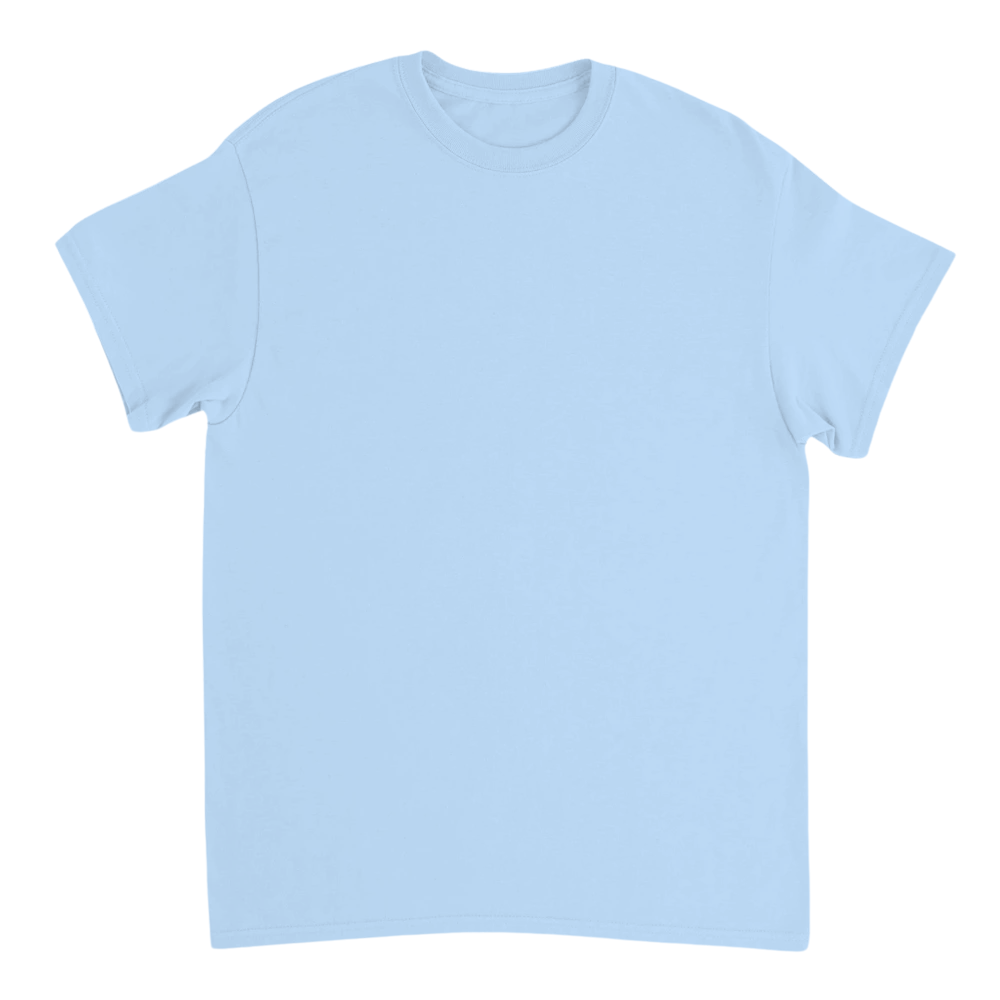
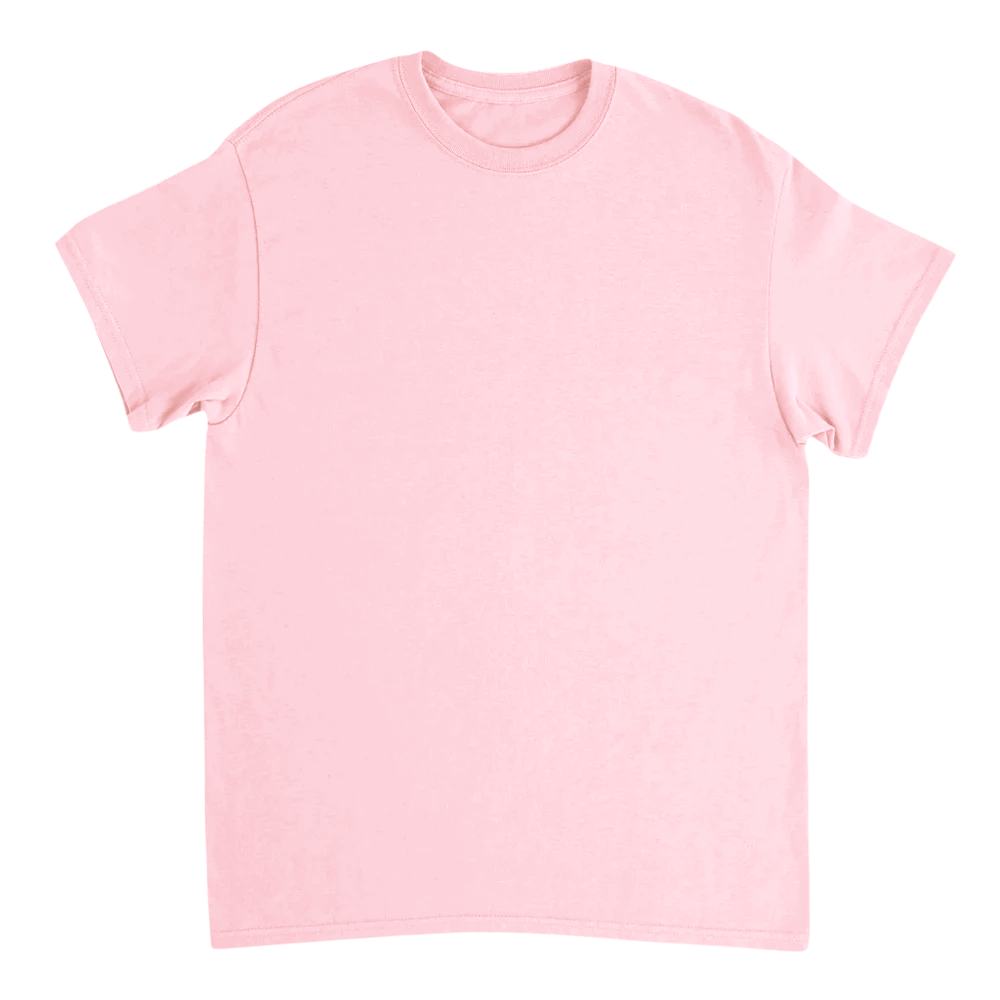
image revamp6

diff --git a/app/templates/index.html b/app/templates/index.html
@@ -28,6 +28,11 @@
 	{% for p in products %}
 	<a href="{{ url_for('main.product_detail', slug=p.slug) }}" class="group border border-gray-800 rounded overflow-hidden bg-gray-900 hover:bg-gray-800 transition-colors">
 		<div class="relative js-card-gallery">
+			{# Live mockup overlay for card: tee base + design overlay #}
+			<div class="absolute inset-0 z-10 pointer-events-none mockup-wrap">
+				<img alt="Tee base" class="w-full h-full object-contain mockup-base" />
+				<img alt="Design overlay" class="absolute object-contain mockup-design" style="width:35%; left:32%; top:26%;" />
+			</div>
 			<div class="aspect-square bg-gray-950 flex items-center justify-center overflow-hidden">
 				{% if p.design and p.design.preview_url %}
 					<img src="{{ p.design.preview_url }}" alt="{{ p.title }}" loading="lazy" class="w-full h-full object-cover" data-frame />
@@ -88,17 +93,24 @@
 (function(){
   document.addEventListener('DOMContentLoaded', function(){
     document.querySelectorAll('.js-card-gallery').forEach(g => {
-      let idx = 0;
+      // idx = -1 => overlay (mockup), 0..N-1 => image frames
+      let idx = -1;
       const frames = Array.from(g.querySelectorAll('img[data-frame]'));
-      if(!frames.length) return;
-      // ensure the first frame is visible
-      frames.forEach((im, j)=>{ if(j===0){ im.classList.remove('hidden'); } });
-      const show = (i)=>{ frames.forEach((im,j)=>{ if(j===i){ im.classList.remove('hidden'); } else { im.classList.add('hidden'); } }); idx=i; };
-      g.querySelector('[data-action="prev"]')?.addEventListener('click', (e)=>{ e.preventDefault(); e.stopPropagation(); if(!frames.length) return; show((idx-1+frames.length)%frames.length); });
-      g.querySelector('[data-action="next"]')?.addEventListener('click', (e)=>{ e.preventDefault(); e.stopPropagation(); if(!frames.length) return; show((idx+1)%frames.length); });
+      const mock = g.querySelector('.mockup-wrap');
+      // initialize: hide all
+      const render = ()=>{
+        frames.forEach(im=>im.classList.add('hidden'));
+        if(mock) mock.classList.add('hidden');
+        if(idx === -1){ if(mock) mock.classList.remove('hidden'); }
+        else if(frames[idx]){ frames[idx].classList.remove('hidden'); }
+      };
+      // controls
+      g.querySelector('[data-action="prev"]')?.addEventListener('click', (e)=>{ e.preventDefault(); e.stopPropagation(); if(!frames.length) return; if(idx===-1) idx=frames.length-1; else idx -= 1; render(); });
+      g.querySelector('[data-action="next"]')?.addEventListener('click', (e)=>{ e.preventDefault(); e.stopPropagation(); if(!frames.length) return; if(idx===frames.length-1) idx=-1; else idx += 1; render(); });
+      render();
     });
 
-    // Simple color swatch -> variant mapping and preview tint
+    // Simple color swatch -> variant mapping and mockup overlay like product_detail
     document.querySelectorAll('.group').forEach(function(card){
       const wrap = card.querySelector('.js-swatch-wrap');
       if(!wrap) return;
@@ -106,31 +118,37 @@
       try { colorMap = JSON.parse(wrap.getAttribute('data-card-color-map')||'{}'); } catch(e){}
       const inputVariant = card.querySelector('.js-variant-id');
       const gallery = card.querySelector('.js-card-gallery');
-      const frame = gallery ? gallery.querySelector('img[data-frame]') : null;
-      // overlay layer
-      let overlay;
-      if(gallery){
-        overlay = document.createElement('div');
-        overlay.className = 'pointer-events-none absolute inset-0 mix-blend-multiply opacity-0 transition-opacity';
-        overlay.style.backgroundColor = 'transparent';
-        gallery.style.position = 'relative';
-        gallery.appendChild(overlay);
-      }
+      const mock = gallery?.querySelector('.mockup-wrap');
+      const base = gallery?.querySelector('.mockup-base');
+      const design = gallery?.querySelector('.mockup-design');
+      const BASES = {
+        white: '/static/uploads/whitetshirt.png',
+        black: '/static/uploads/blacktshirt.png',
+        heather: '/static/uploads/heathertshirt.png',
+        red: '/static/uploads/redtshirt.png',
+        blue: '/static/uploads/bluetshirt.png'
+      };
+      // initialize design overlay if available from first frame
+      try{
+        const firstDesign = gallery?.querySelector('img[data-frame]')?.getAttribute('src') || '';
+        if(design && firstDesign){ design.src = firstDesign; }
+      }catch(e){}
+      // default tee base
+      if(base){ base.onerror = function(){ this.onerror=null; this.src = BASES.white; }; base.src = BASES.white; }
       wrap.querySelectorAll('[data-color]').forEach(function(btn){
         btn.addEventListener('click', function(e){
           e.preventDefault();
           const c = (btn.getAttribute('data-color')||'').toLowerCase();
           if(colorMap[c] && inputVariant){ inputVariant.value = colorMap[c]; }
-          // tint overlay for black/white/red/blue/gray
-          if(overlay){
-            let col = 'transparent', op = 0;
-            if(c==='black'){ col = '#000'; op = 0.45; }
-            else if(c==='white'){ col = '#fff'; op = 0; }
-            else if(c==='red'){ col = '#ef4444'; op = 0.25; }
-            else if(c==='blue'){ col = '#3b82f6'; op = 0.25; }
-            else if(c==='heather' || c==='grey' || c==='gray'){ col = '#9ca3af'; op = 0.25; }
-            overlay.style.backgroundColor = col;
-            overlay.style.opacity = String(op);
+          // show mockup overlay for this card
+          if(mock && base){
+            base.onerror = function(){ this.onerror=null; this.src = BASES.white; };
+            base.src = BASES[c] || BASES.white;
+            mock.classList.remove('hidden');
+          }
+          // hide other frames so overlay is the active view (like product_detail)
+          if(gallery){
+            gallery.querySelectorAll('img[data-frame]')?.forEach(im=>im.classList.add('hidden'));
           }
         });
       });

diff --git a/app/templates/shop.html b/app/templates/shop.html
@@ -93,8 +93,9 @@
       let idx = 0;
       const frames = Array.from(g.querySelectorAll('img[data-frame]'));
       if(!frames.length) return;
-      frames.forEach((im, j)=>{ if(j===0){ im.classList.remove('hidden'); } });
+      frames.forEach(im=>im.classList.add('hidden'));
       const show = (i)=>{ frames.forEach((im,j)=>{ if(j===i){ im.classList.remove('hidden'); } else { im.classList.add('hidden'); } }); idx=i; };
+      show(0);
       g.querySelector('[data-action="prev"]')?.addEventListener('click', (e)=>{ e.preventDefault(); e.stopPropagation(); if(!frames.length) return; show((idx-1+frames.length)%frames.length); });
       g.querySelector('[data-action="next"]')?.addEventListener('click', (e)=>{ e.preventDefault(); e.stopPropagation(); if(!frames.length) return; show((idx+1)%frames.length); });
     });
